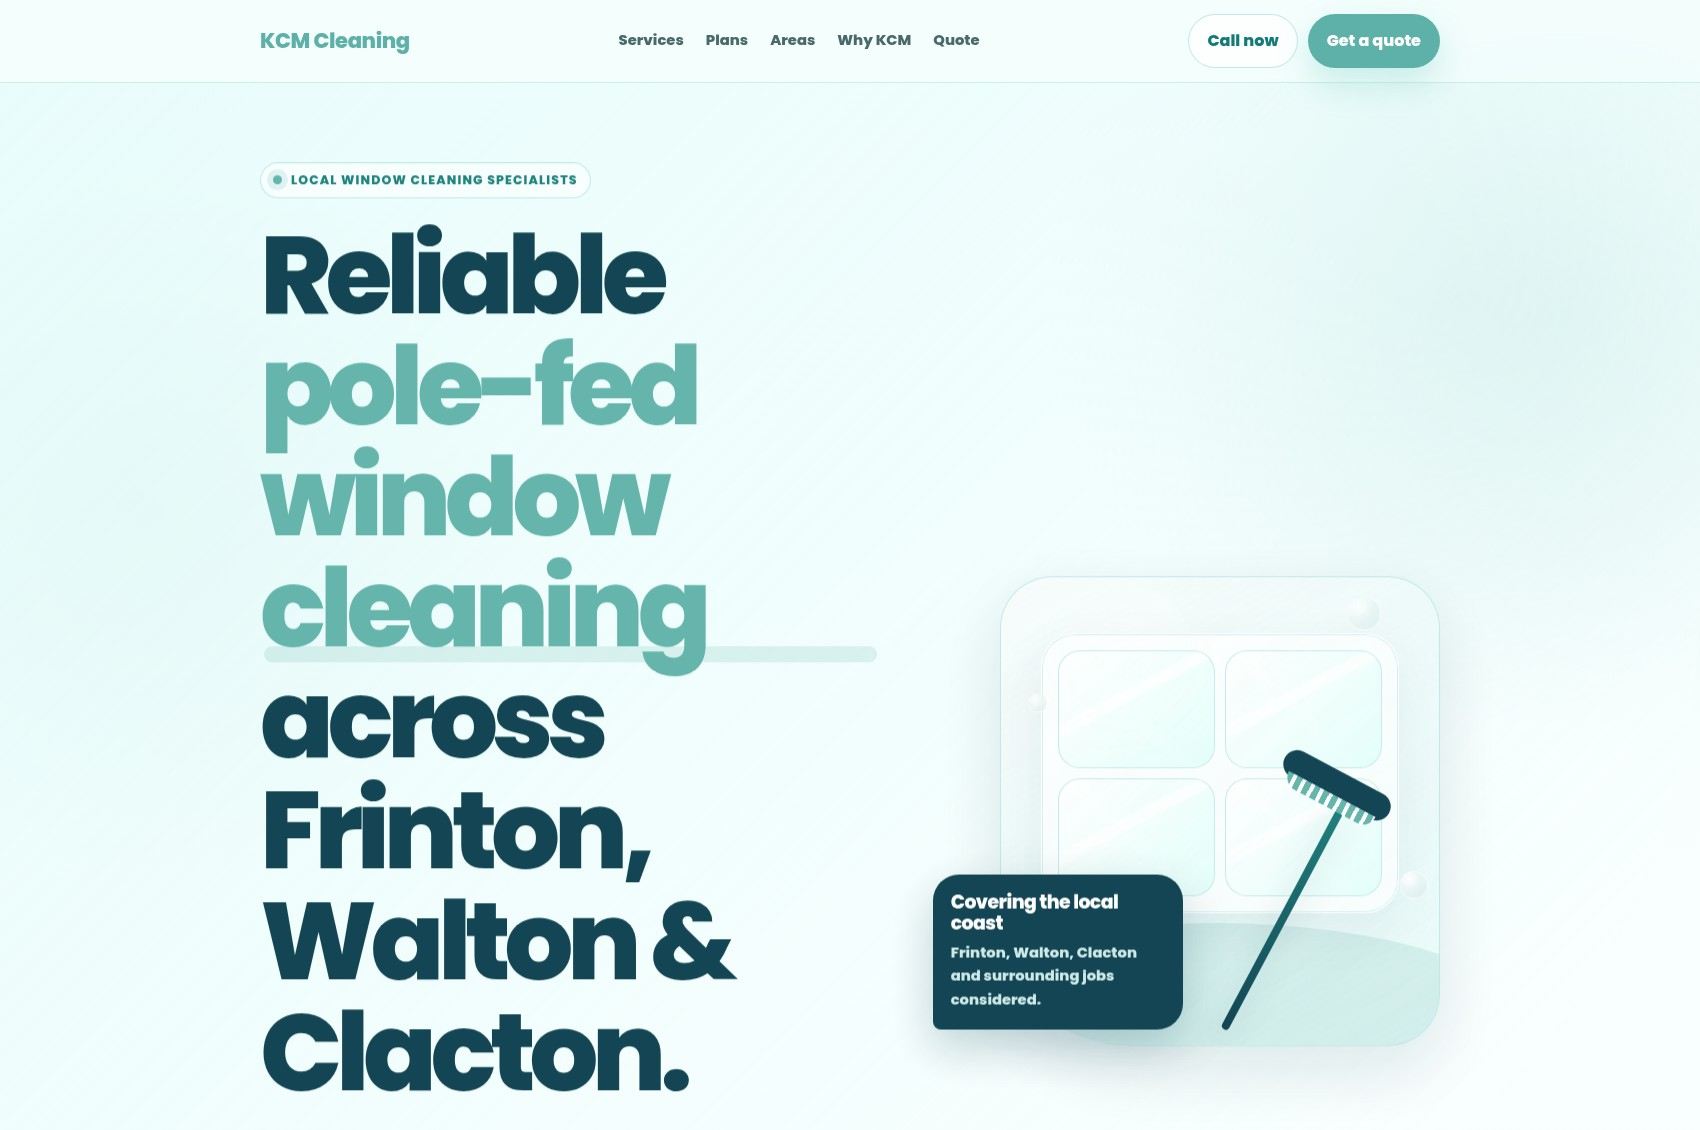
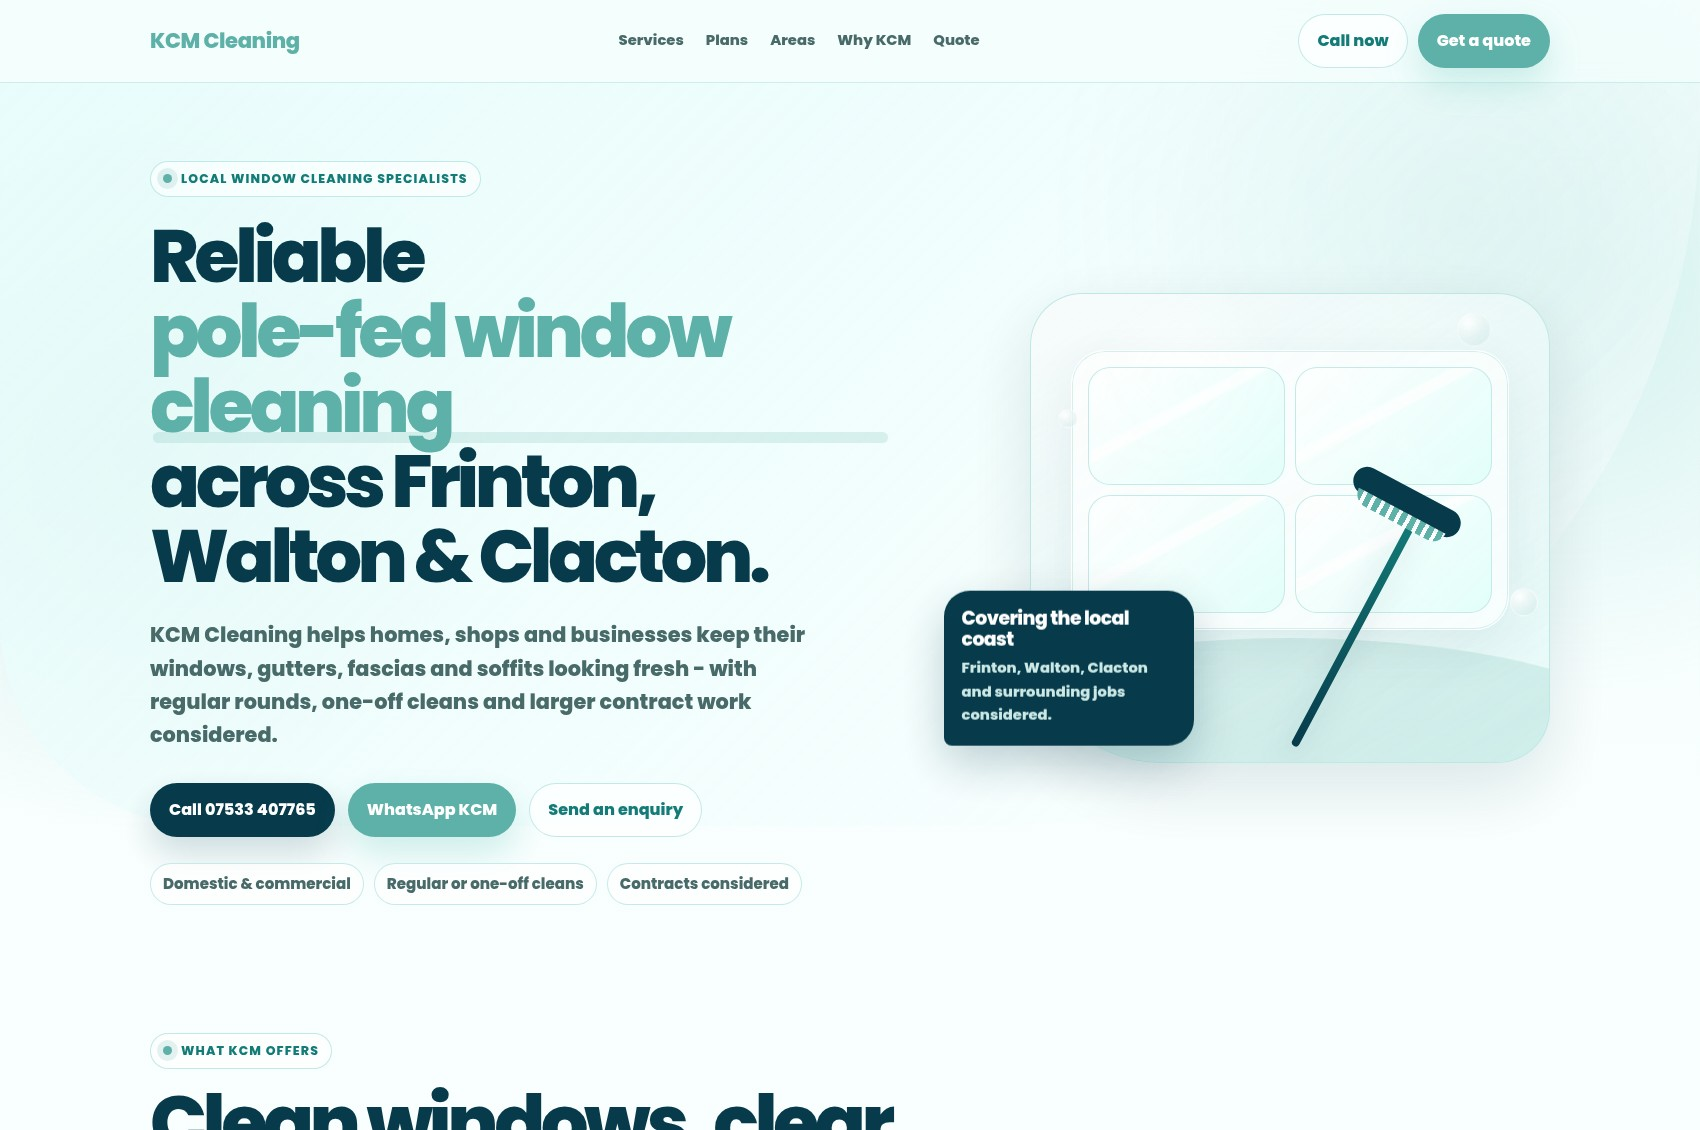
Rework pricing to start from £200, refresh KCM case study screenshot
Pricing: Starter now starts from £200 (was £199) for a one-off site -
positioned as the entry point for a small business to get a website
or business email address they can put on a van, shop window or
business card. Business moves to £450 to reflect the real extra scope
(multi-section build, business email setup, SEO basics) rather than a
token step up from Starter, and the Care Plan add-on rounds to £30/mo.

Domain registration is now called out explicitly as separate from the
build price and billed yearly by the registrar, both on the Starter
card (where it matters most) and in the pricing footnote, so there's
no surprise about the recurring cost.

Also swaps in a fresh KCM Cleaning screenshot for the Work section
case study, reflecting the desktop hero fix.

Claude-Session: https://claude.ai/code/session_01P9PfDtQpUdSTpnVoomA4eb

diff --git a/index.html b/index.html
@@ -1039,34 +1039,34 @@
         <div class="pricing-grid">
           <article class="price-card">
             <span class="price-eyebrow">Starter</span>
-            <p class="price-tag">£199 <span>one-off</span></p>
-            <p class="price-blurb">A single, sharp landing page to get a sole trader online fast.</p>
+            <p class="price-tag">From £200 <span>one-off</span></p>
+            <p class="price-blurb">A single, sharp landing page to get a sole trader online fast - the kind of site you can put on a van, shop window or business card.</p>
             <ul class="price-features">
               <li>One-page custom design</li>
               <li>Mobile-first build</li>
               <li>Contact form set up</li>
-              <li>Domain connection help</li>
+              <li>Domain set up for you (billed yearly, from ~£10)</li>
             </ul>
-            <a href="#connect" class="btn btn-outline price-btn" data-package="Starter - £199 one-off">Get started</a>
+            <a href="#connect" class="btn btn-outline price-btn" data-package="Starter - from £200 one-off">Get started</a>
           </article>
 
           <article class="price-card featured">
             <span class="price-badge">Most popular</span>
             <span class="price-eyebrow">Business</span>
-            <p class="price-tag">£399 <span>one-off</span></p>
+            <p class="price-tag">From £450 <span>one-off</span></p>
             <p class="price-blurb">A full multi-section website built to turn visitors into enquiries.</p>
             <ul class="price-features">
               <li>Everything in Starter</li>
               <li>Multi-section site (services, gallery, reviews)</li>
-              <li>Domain & business email setup</li>
+              <li>Business email set up on your domain</li>
               <li>Google-friendly SEO basics</li>
             </ul>
-            <a href="#connect" class="btn btn-accent price-btn" data-package="Business - £399 one-off">Get started</a>
+            <a href="#connect" class="btn btn-accent price-btn" data-package="Business - from £450 one-off">Get started</a>
           </article>
 
           <article class="price-card">
             <span class="price-eyebrow">Business + Care Plan</span>
-            <p class="price-tag">£399 <span>+ £29/mo</span></p>
+            <p class="price-tag">From £450 <span>+ £30/mo</span></p>
             <p class="price-blurb">The Business site, plus ongoing updates so it never goes stale.</p>
             <ul class="price-features">
               <li>Everything in Business</li>
@@ -1074,11 +1074,11 @@
               <li>Review showcase refreshes</li>
               <li>Priority support</li>
             </ul>
-            <a href="#connect" class="btn btn-outline price-btn" data-package="Business + Care Plan - £399 + £29/mo">Get started</a>
+            <a href="#connect" class="btn btn-outline price-btn" data-package="Business + Care Plan - from £450 + £30/mo">Get started</a>
           </article>
         </div>
 
-        <p class="price-note">Guide pricing for a typical single-location small business site - final quote confirmed after a quick chat. Card payments are securely processed by Stripe.</p>
+        <p class="price-note">Guide pricing for a typical single-location small business site - final quote confirmed after a quick chat, based on what the site needs. Domain registration is separate from the build cost and renews yearly direct with the registrar - typically £10-15/year for a .co.uk, sometimes more depending on the domain you want. Card payments are securely processed by Stripe.</p>
       </div>
     </section>
 
